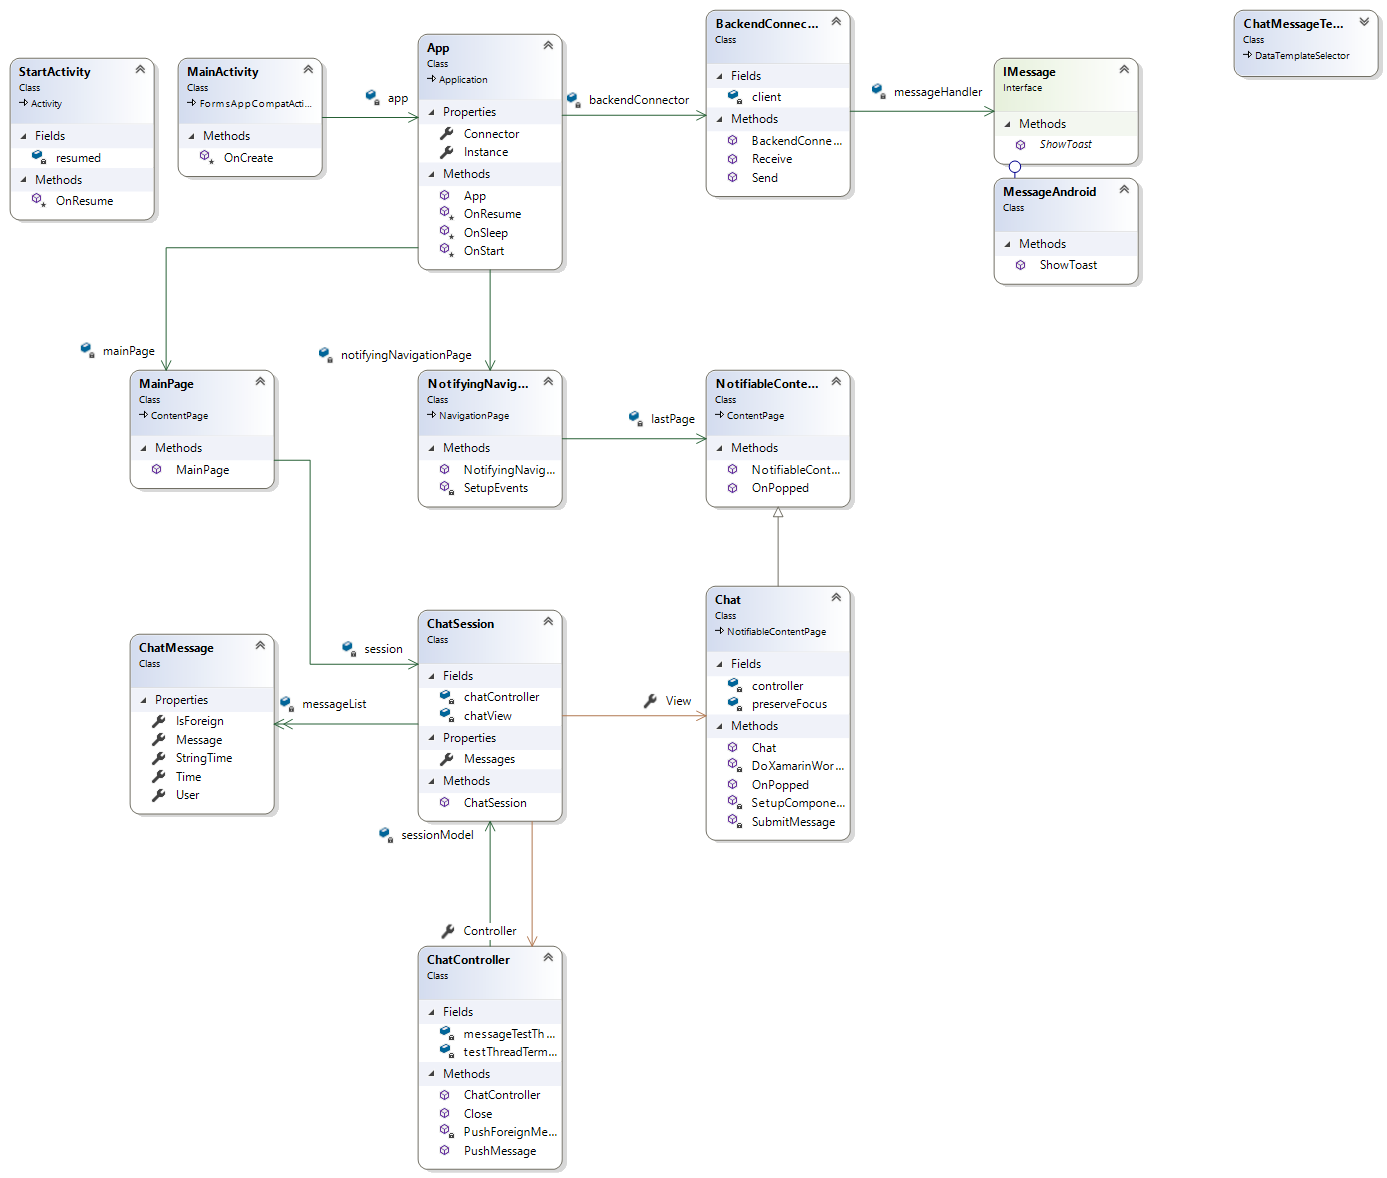
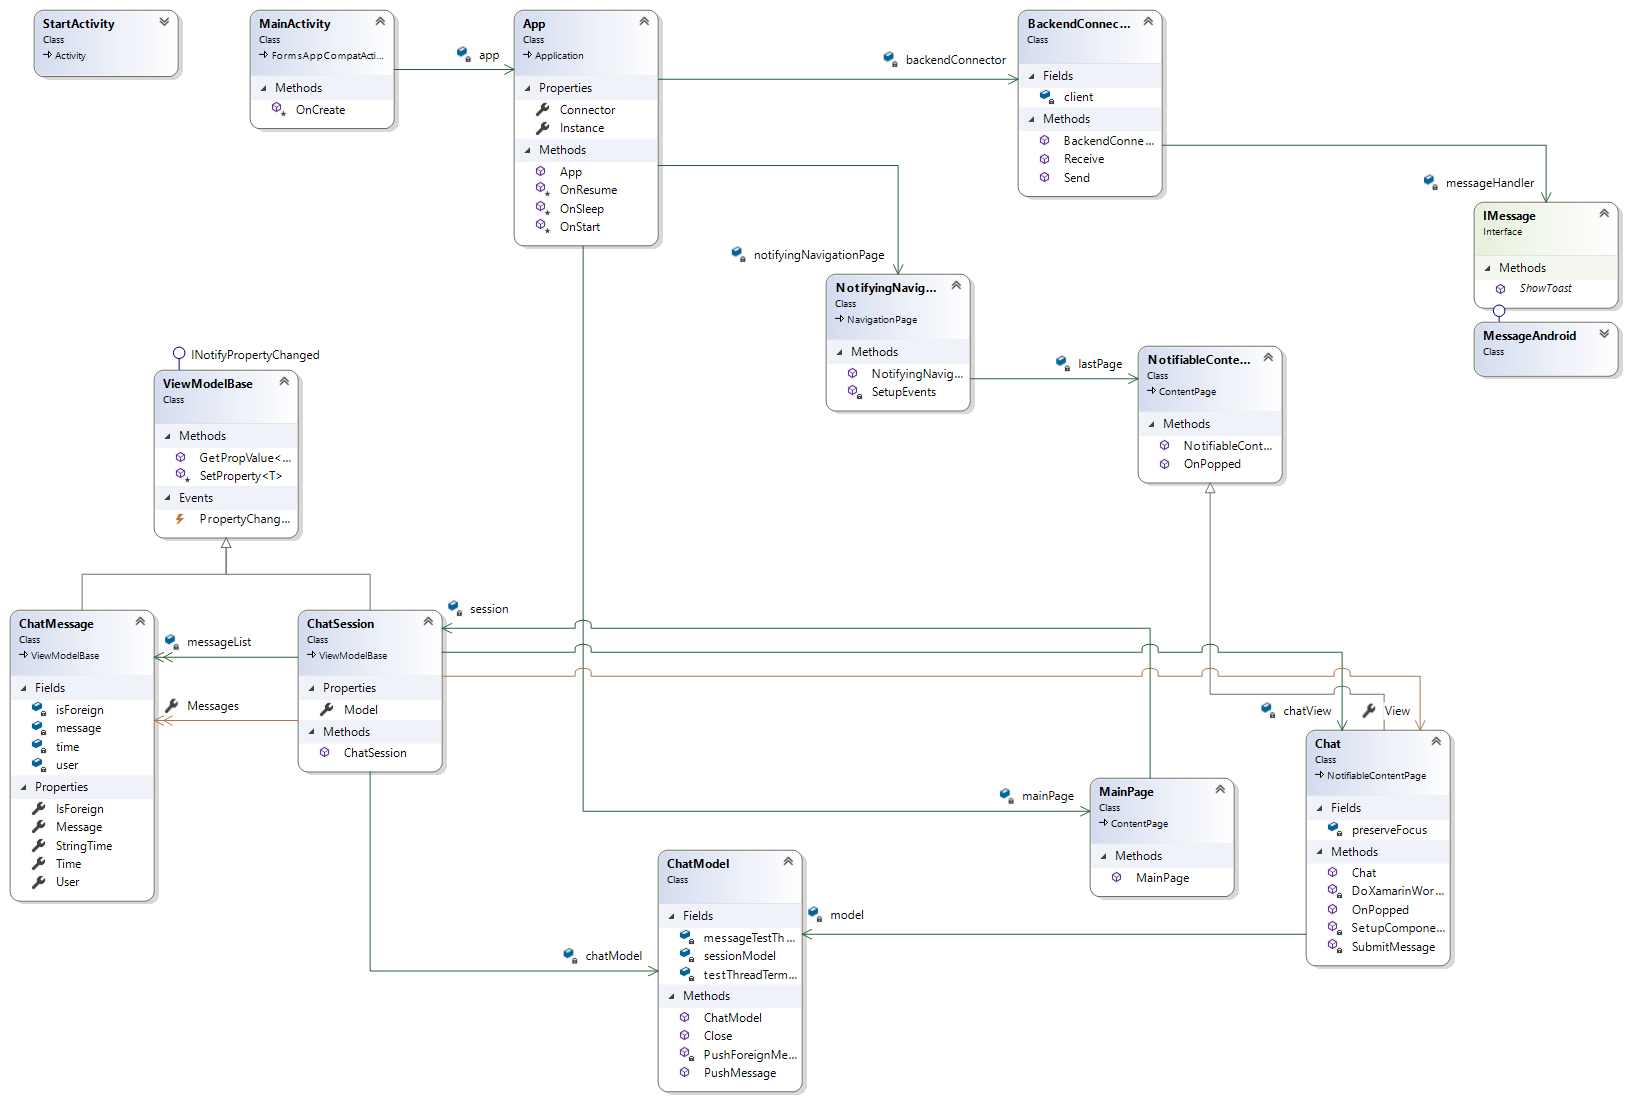
NECO-35 updated SAD

diff --git a/docs/SAD.md b/docs/SAD.md
@@ -37,6 +37,9 @@ n/a
 ### 1.5 Overview
 The architectural details will be described in the following sections. This includes the class diagrams which gives an overview about the whole project.
 ## 2. Architectural Representation
+As we develop a Chross-Plattform mobile ab MVVM is the pattern of choice.
+It allows us to decouple the UI (View) from the Business Logic (Model/ViewModel).
+
 ![mvvm]
 ## 3. Architectural Goals and Constraints
 n/a
@@ -68,6 +71,6 @@ n/a
 n/a
 
 
-[Class Diagram]: https://github.com/Haus4/NeCo/raw/develop/docs/img/ClassDiagram.png "Overall Use Case Diagram"
+[Class Diagram]: https://github.com/Haus4/NeCo/raw/develop/docs/img/ClassDiagram_mvvm.png "Class Diagram with MVVM"
 
 [mvvm]: https://github.com/Haus4/NeCo/raw/develop/docs/img/mvvm.png "Model-View-Viewmodel"
